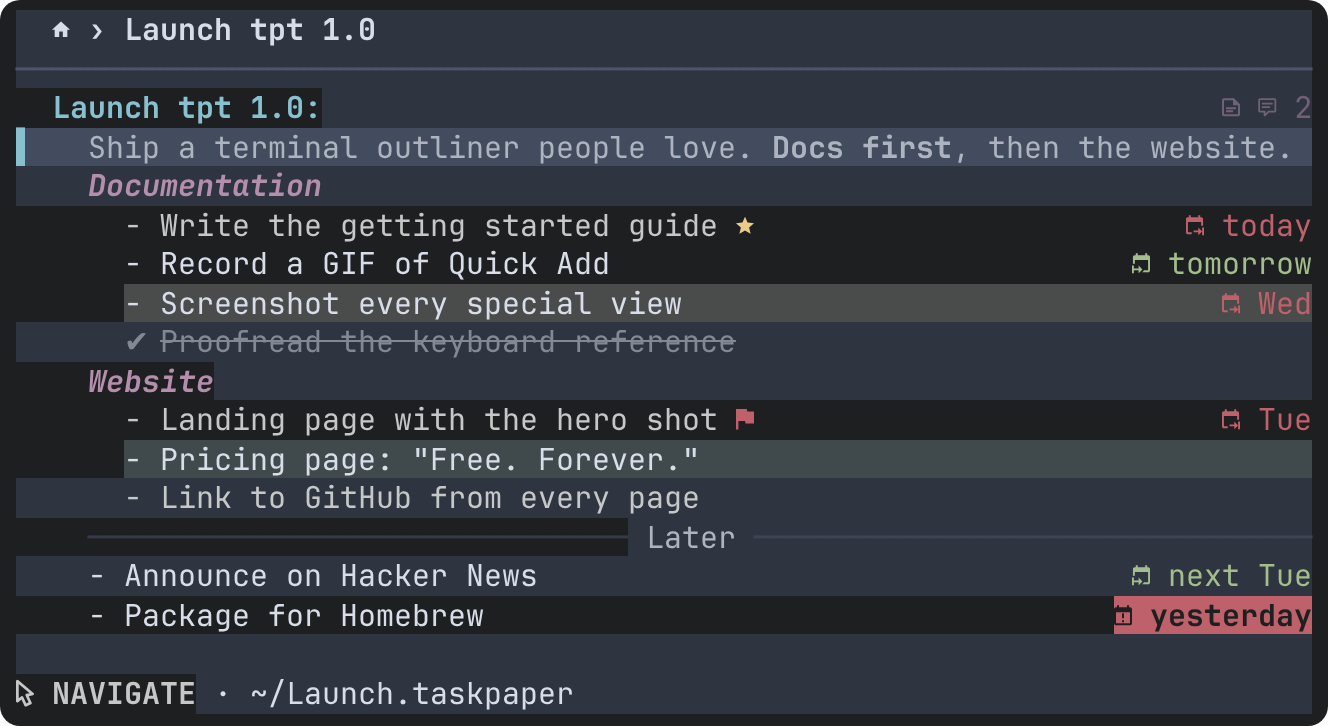
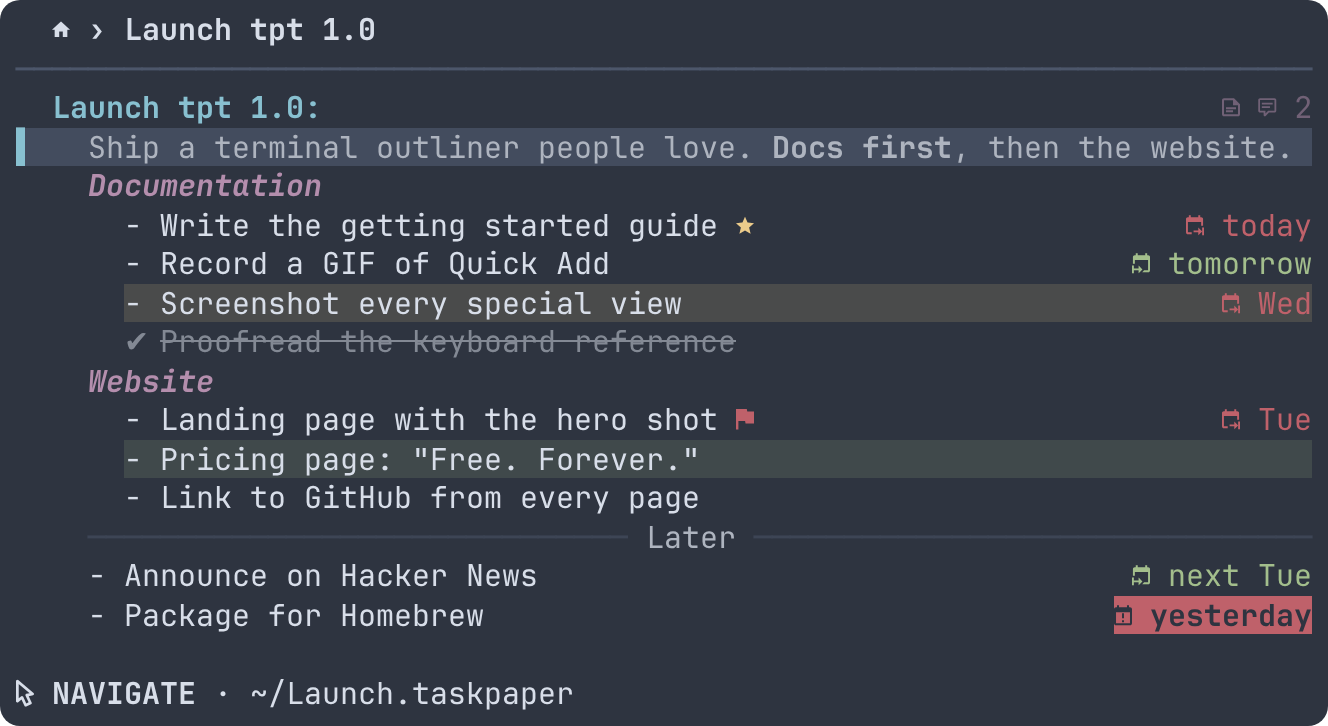
Keep each screenshot row's style and theme background from the line before
Claude-Session: https://claude.ai/code/session_01K6yYDriDJQcoCWremSViVC

diff --git a/site/screenshots/shoot.py b/site/screenshots/shoot.py
@@ -158,11 +158,12 @@ def blend(fg, bg, t=0.5):
 
 
 def to_html(screen, height):
-    """Turns tmux's SGR-escaped capture into rows of styled spans."""
-    rows = []
+    """Turns tmux's SGR-escaped capture into rows of styled spans, and the most common background."""
+    rows, backgrounds = [], {}
+    # tmux does not repeat the style at the start of a line, so it carries over from the last.
+    st = {"fg": None, "bg": None, "b": False, "d": False, "i": False, "u": False,
+          "r": False, "s": False}
     for line in screen.split("\n")[:height]:
-        st = {"fg": None, "bg": None, "b": False, "d": False, "i": False, "u": False,
-              "r": False, "s": False}
         spans, width = [], 0
         for part in re.split(r"(\x1b\[[0-9;:]*m)", line):
             if part.startswith("\x1b["):
@@ -212,9 +213,10 @@ def to_html(screen, height):
             text = "".join(html.escape(c) if ord(c) < 0x2500 else f'<i class="c">{html.escape(c)}</i>'
                            for c in part)
             spans.append(f'<span style="{";".join(css)}">{text}</span>')
+            backgrounds[bg] = backgrounds.get(bg, 0) + len(part)
             width += len(part)
         rows.append("".join(spans))
-    return "\n".join(rows)
+    return "\n".join(rows), max(backgrounds, key=backgrounds.get, default=BG)
 
 
 PAGE = """<!doctype html><html><head><meta charset="utf-8"><style>
@@ -317,8 +319,9 @@ def main():
         pngs = []
         for index, (screen, _) in enumerate(frames):
             page = CACHE / f"{group}-{name}-{index}.html"
+            body, background = to_html(screen, scene["rows"])
             page.write_text(PAGE.format(
-                body=to_html(screen, scene["rows"]), fg=FG, bg=BG, cols=scene["cols"],
+                body=body, fg=FG, bg=background, cols=scene["cols"],
                 title=html.escape(scene.get("window_title", f"tpt — {scene.get('save_as', 'Launch.taskpaper')}")),
                 outer="transparent", pad="0" if plain else "28px",
                 inner="6px 8px" if plain else "10px 12px",
